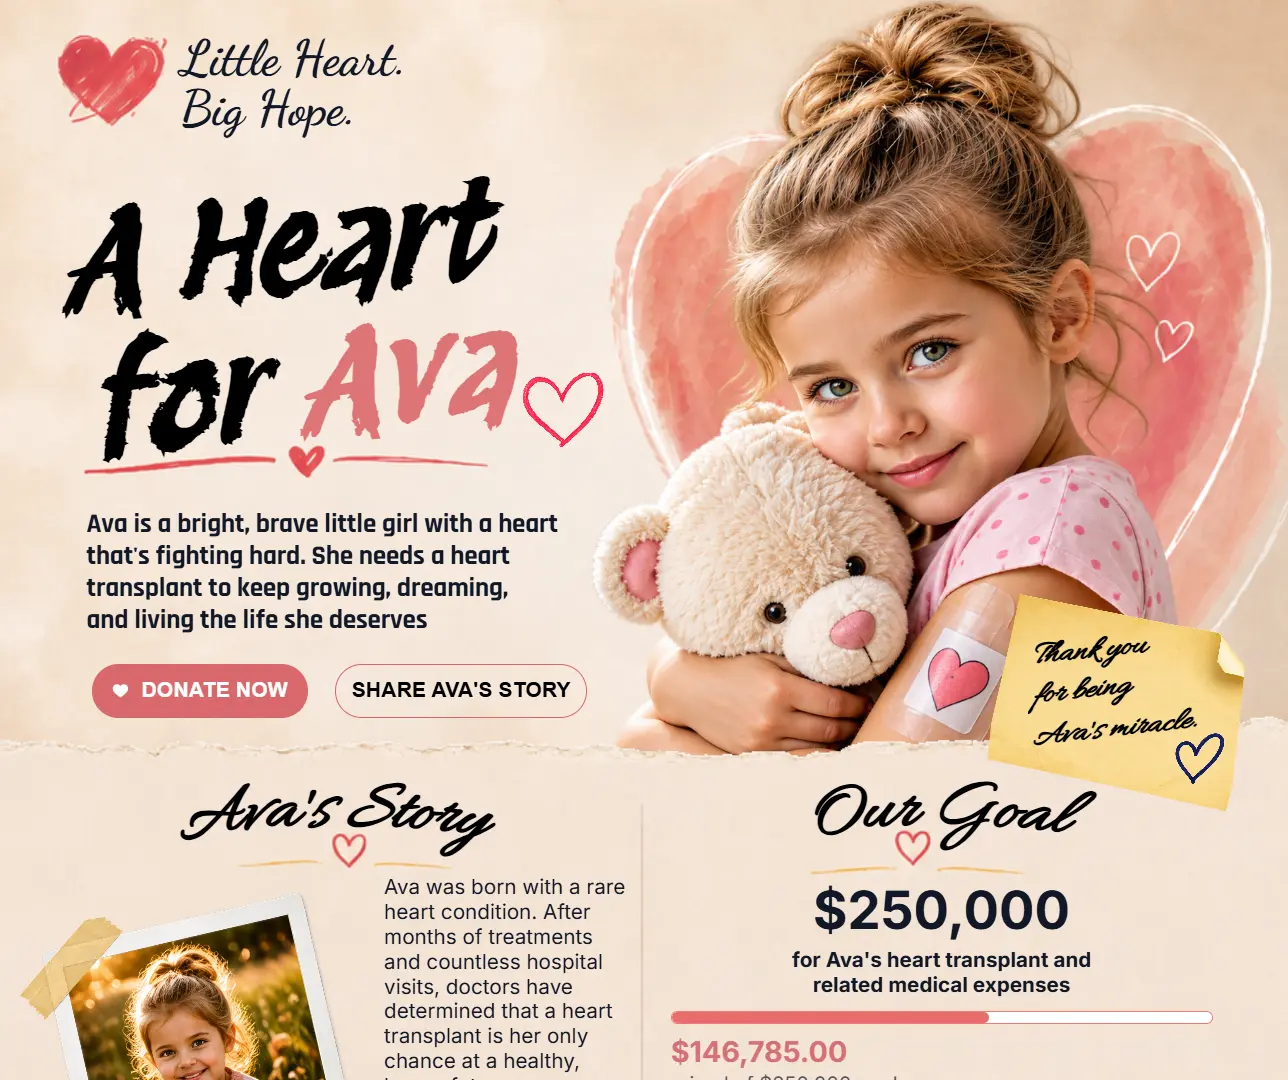
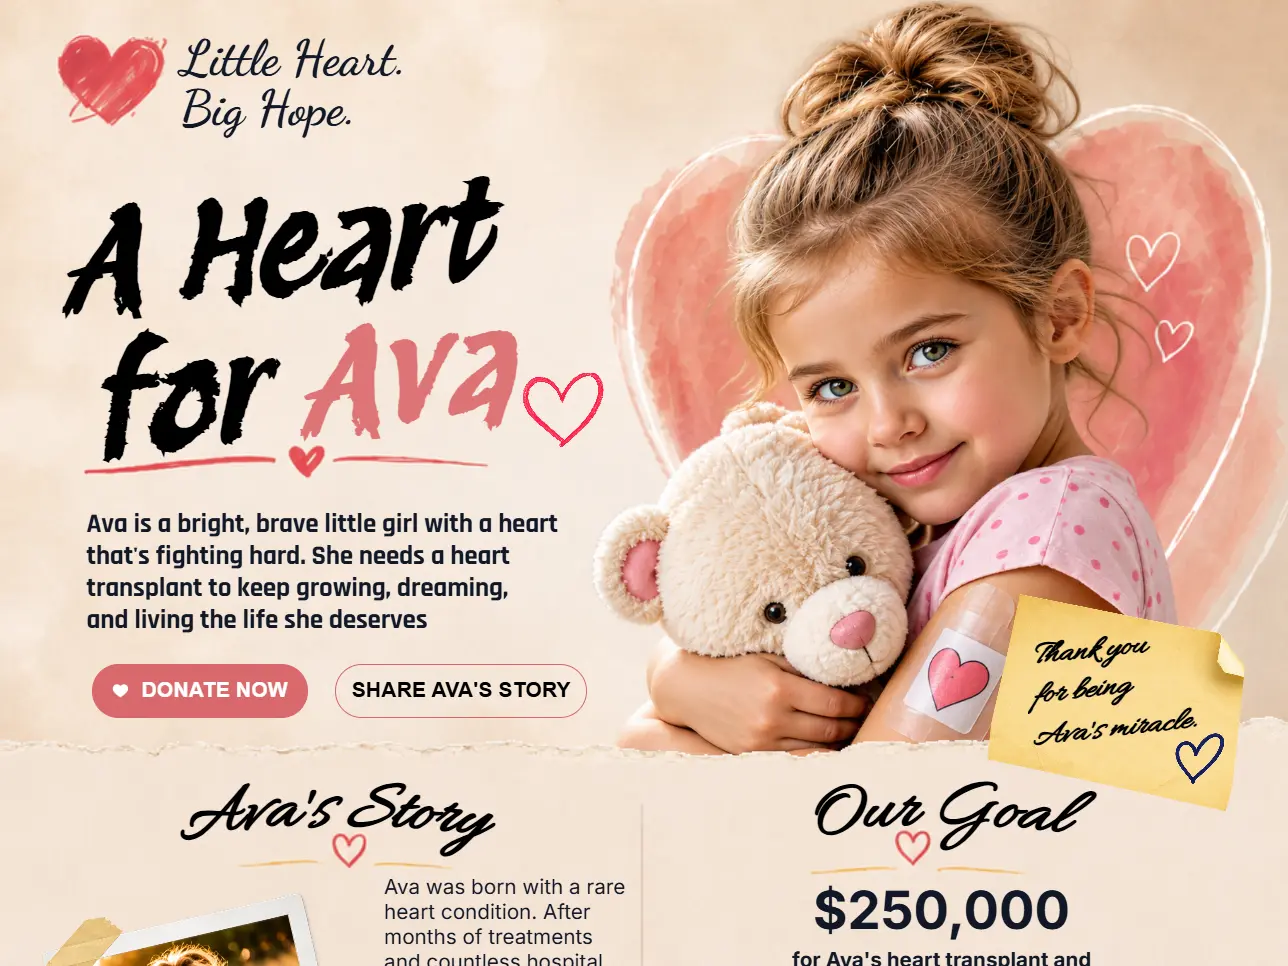
Update Push Commits

diff --git a/lib/templates/layout-presets/templates/crowdfunding_campaign/elaborate.ts b/lib/templates/layout-presets/templates/crowdfunding_campaign/elaborate.ts
@@ -7,5 +7,5 @@ export default createLayoutPreset({
   description: "Detailed layout with story, rewards, and support options",
   thumbnail: "/designs/design-cards/design-card_crowdfunding_elaborate.webp",
 
-  recommended: true,
+  recommended: false,
 });

diff --git a/components/templates/DesignLayoutEditor.tsx b/components/templates/DesignLayoutEditor.tsx
@@ -18111,6 +18111,7 @@ selectedBlock?.type === "donation" ? (
     setGalleryTextTarget={setGalleryTextTarget}
   />
 ) : null}
+
                 
 {!isMultiSelection &&
 selectedBlock?.type === "cta" ? (

diff --git a/components/preview/BlockRenderer.tsx b/components/preview/BlockRenderer.tsx
@@ -4442,6 +4442,7 @@ buttonImagePlacement ===
   return <CtaButtonLive />;
 }
 
+
 function renderCountdown(
   block: Extract<MicrositeBlock, { type: "countdown" }>,
   designKey?: string,

diff --git a/components/preview/PlacedBlocksPreview.tsx b/components/preview/PlacedBlocksPreview.tsx
@@ -847,7 +847,7 @@ return (
               </div>
             </div>
           </div>
-        ) : null}
+        ) : null} 
 
 {blockEntries.map(
   ({
